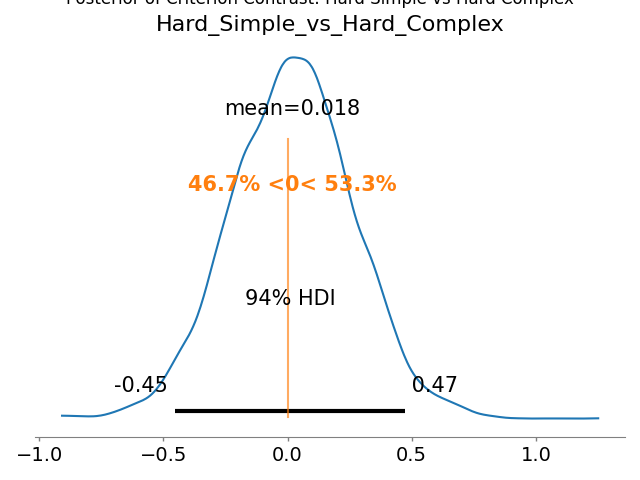
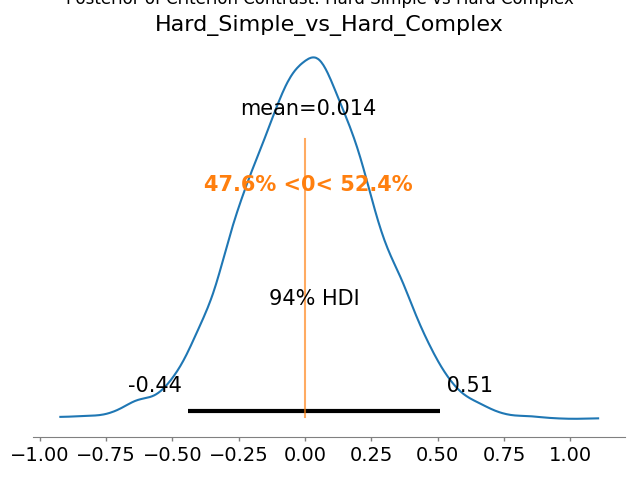
cleaning 4

diff --git a/code/sdt_ddm.py b/code/sdt_ddm.py
@@ -368,7 +368,7 @@ def analyze_results(idata, data):
     full_df.to_csv(OUTPUT_DIR / "overall_posterior_parameters.csv", index=False)
 
     #forest plot for condition effects like in full.py
-    az.plot_posterior(idata, var_names=['d_prime'])
+    az.plot_posterior(idata, var_names=['d_prime', 'criterion'])
     plt.tight_layout()
     plt.savefig(OUTPUT_DIR / "overall_forest_plot.png")
     plt.close()
